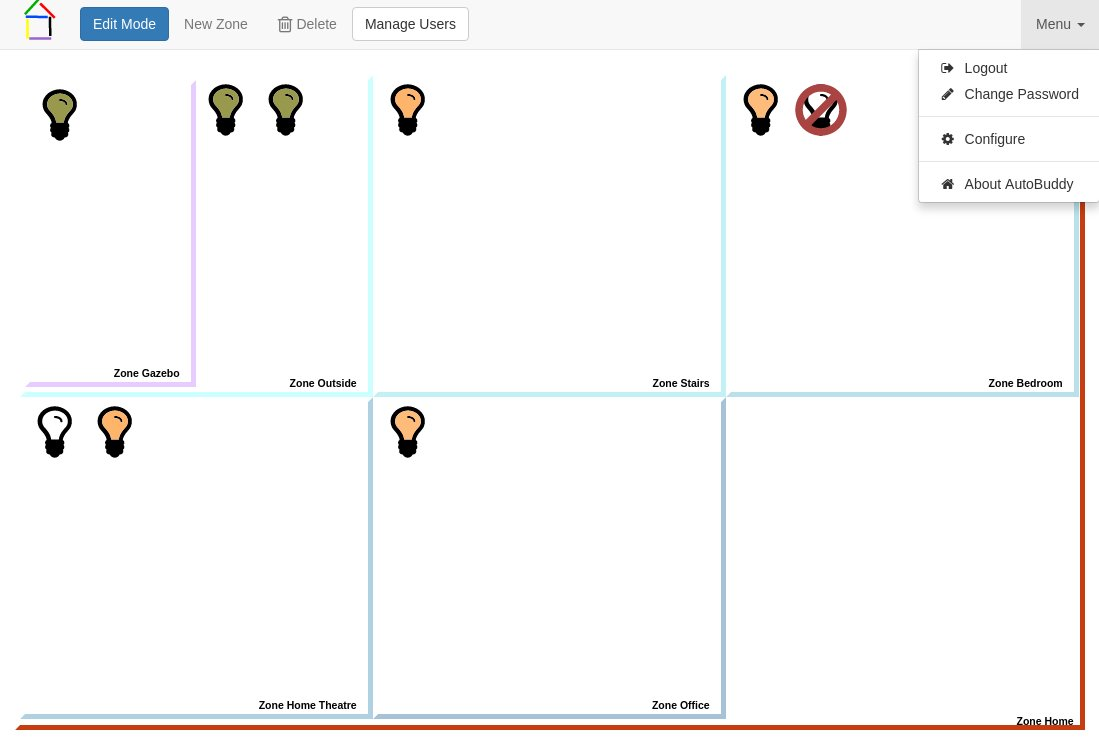
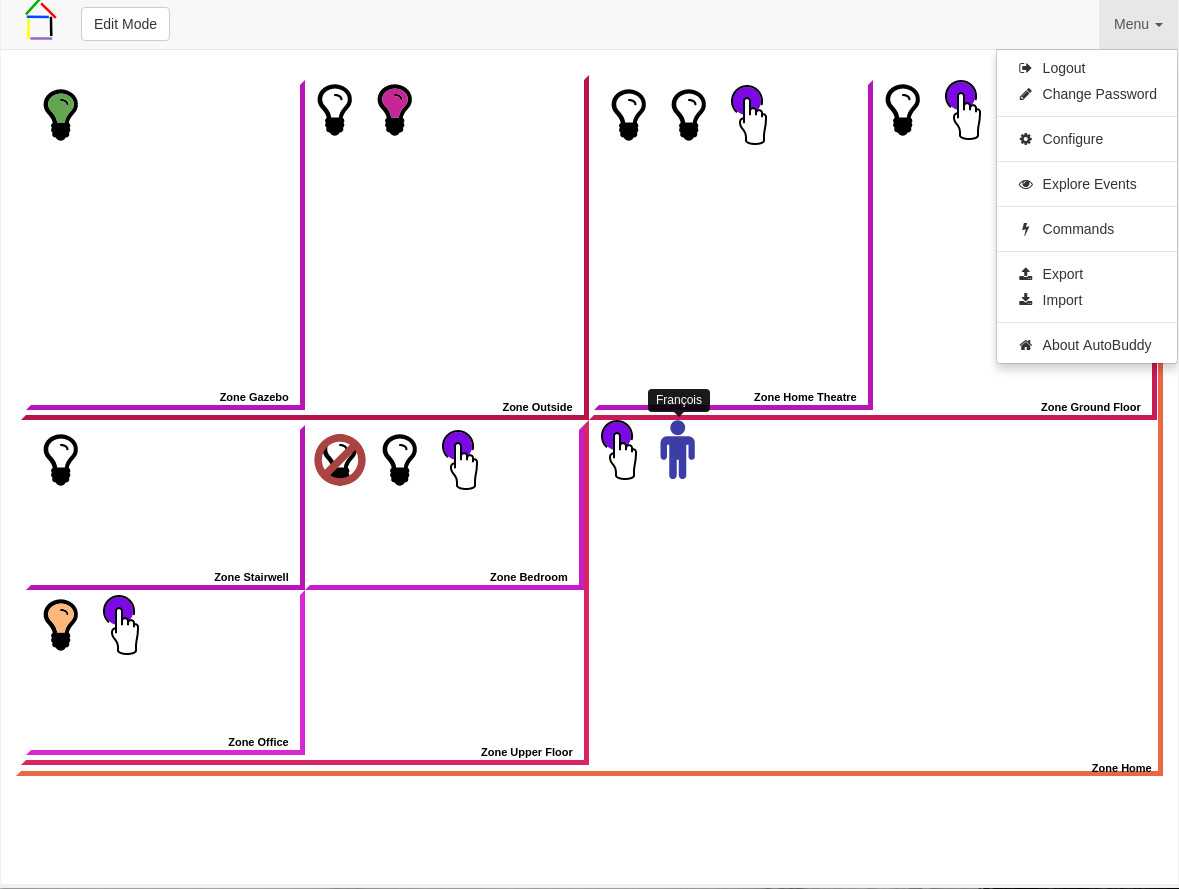
Updated to reflect March 2017 status

diff --git a/index.html b/index.html
@@ -33,30 +33,78 @@
           <h1>Introduction</h1>
           <p><em>AutoBuddy</em> is a would-be home automation system written in his spare time by François Wautier.
           It is distributed under the MIT license.</p>
-          <p>This project was triggered by the purchase of a number of <a href="http://www.lifx.com">Lifx lightbulbs</a></p>
-          <p><em>AutoBuddy</em> consists in a number of pieces of software communicating via
-          <a ref="https://www.amqp.org/">AMQP</a> using <a hef="https://qpid.apache.org/">Apache Qpid</a> daemon and library.</p>
-          <p>This project is pretty much in its infancy and should be considered at this point (Oct 2015) as pre-alpha</p>
+          <p>This project was triggered by the purchase of a number of <a href="http://www.lifx.com">Lifx lightbulbs</a>.</p>
+          <p><em>AutoBuddy</em> consists in a number of pieces of software communicating via simple messaging bus. At this time,
+          March 2017, it should be considered beta software. AutoBuddy requires Python 3.5 or above.
+          </p>
           <p>AutoBuddy's logo was designed by Khan Wautier.</p>
           <h1>Components</h1>
           <h2>Buddylib</h2>
           <p>Buddylib is a python library that defines the element known to the AutoBuddy ecosystem. It defines zone, various 
           devices as well as some generic bridge functionalities. Buddylib depends on 
-          <a href="http://www.sqlalchemy.org/">SQLAlchemy</a> and <a hef="https://qpid.apache.org/">Apache qpid</a> python library.</p>
+          <a href="http://www.sqlalchemy.org/">SQLAlchemy</a>.</p>
           <h2>ControlBuddy</h2>
-          <p>ControlBuddy is at the heart of AutoBuddy. It controls the zones and their associated devices. It provides 
-          persistence services to other components.</p>
+          <p>ControlBuddy is at the heart of AutoBuddy. It multiplexes all the messages going in and out of the bus. It controls the zones and their associated devices. 
+          It provides persistence services to other components.</p>
           <h2>LifxBuddy</h2>
           <p>LifxBuddy is a bridge application that provides control to <a href="http://www.lifx.com">Lifx lightbulbs</a>. It uses 
-          <a href="https://github.com/mclarkk/lifxlan">lifxlan</a> to communicate with the lightbulbs.</p>
+          <a href="https://github.com/frawau/aiolifx">aiolifx</a> to communicate with the lightbulbs.</p>
+          <h2>FlicBuddy</h2>
+          <p>FlicBuddy is a bridge application that provides access to <a href="https://flic.io/">Flic Smart Button</a>. It uses 
+          <span style="font-style: italic;">aioflic</span> and <span style="font-style: italic;">flicd</span>, that can be found within
+          <a href="https://github.com/50ButtonsEach/fliclib-linux-hci">fliclib-linux-hci</a> to communicate with the buttons. FlicBuddy requires the exclusive us of a
+          Bluetooth adapter. More than one BuddyFlic can run as long as they have different subtypes. </p>
+          <h2>PresenceBuddy</h2>
+          <p>PresenceBuddy is a bridge application that provides presence information based on devices' MAC addresses. It uses 
+          <a href="https://github.com/frawau/aioarping">aioarping</a> to track MAC addresses on your LAN and/or <a href="https://github.com/frawau/aiobtname">aiobtname</a>
+          to track Bluetooth MAC addresses. Tracking presence with Bluetooth is very reliable. Tracking presence using ARP request is much less reliable. We
+          tested with LG G5, Samsung Galaxy 7, iPhone 4s, iPhone 7 all of them answered haphazardly to the ARP requests sent.</p>
+          <h2>ActionBuddy</h2>
+          <p>ActionBuddy is an application that processes events and act on them based on rules defined by the users. ActionBuddy also manages
+          internal time events (granularity is 1 minute). ActionBuddy let the user define <span style="font-style: italic;">state variables</span>
+          and <span style="font-style: italic;">rules</span>.</p>
+          <p>State variables can be of type:
+          <dl>
+          <dt>event</dt><dd>Keep track of some event value (oor part thereof)</dd>
+          <dt>simple</dt><dd>A way too share information between rules</dd>
+          <dt>counter</dt><dd>Similar to a simple variable, but with interger operations.</dd>
+          <dt>tracker</dt><dd>A way to track entities associated with specific events/values.</dd>
+          <dt>time</dt><dd>A way to define time intervals</dd>
+          </dl>
+          </p>
+          <p>Rules are defined by:
+          <dl>
+          <dt>A trigger</dt><dd>An event/value or the resulting value of a state variable after an event.</dd>
+          <dt>A list of conditions</dt><dd>Each condition testing the value of a state variable.</dd>
+          <dt>A list of commands</dt><dd>A list of commands to be executed if all the condition have been met after the rule was triggerred.</dd>
+          </dl>
+          </p>
+          <p>ActionBuddy will process all events in the following way:
+          <ol>
+          <li>Update all the state variables that the event should update,</li>
+          <li>Check what rules are triggerred,</li>
+          <li>Check that all the conditions are met for the rules triggerred,</li>
+          <li>If all checks, execute the commands.</li>
+          </ol>
+          </p>
+          <p>With ActionBuddy you can define rule that:
+          <ul>
+          <li>Create a nice light show at sunset</li>
+          <li>Toggle a light at the push of a flic</li>
+          <li>Restore the state of your light after a power outage</li>
+          <li>Turns light On/Off depending on the time of day and the presence/absence of people</li>
+          <li>Have your wife prepare you breakfast when you wake up..... Oh wait! That is not working yet.</li>
+          <li>...</li>
+          <ul>
+          </p>
           <h2>SocketBuddy</h2>
-          <p>SocketBuddy provides 2-way communication between websocket and AMQP. It serves WebBuddy and also provides login service to
-          WebBuddy. It uses <a href="http://autobahn.ws/">Autobahn WebSocket</a> Python library and 
-          <a hef="https://qpid.apache.org/">Apache qpid</a> library.</p>
+          <p>SocketBuddy provides 2-way communication between websocket and the . It serves WebBuddy and also provides login service to
+          WebBuddy. It uses <a href="http://aiohttp.readthedocs.io/en/stable/">aiohttp</a> Python library.</p>
           <h2>WebBuddy</h2>
           <p>WebBuddy is AutoBuddy web application. It enables the user, to create zones, associate devices with zone,
-          send commands to the devices/zones, manage users, and so on.</p>
+          send commands to the devices/zones, manage users, define rules, and so on.</p>
           <img src="images/webbuddy-snap.jpg" />
+          <img src="images/webbuddy-light-control.jpg" />
           <p>WebBuddy depend on, among others:
               <ul>
               <li><a href="https://jquery.org/">jQuery and jQuery-ui</a></li>
@@ -66,22 +114,31 @@
               that is a sub-project of ours.</li>
               </ul>
           </p>
+          <img src="images/webbuddy-action-rule.jpg" />
+          <p>WebBuddy uses BuddyGuiLib to render all the command and configuration described in XML by each modules on
+          the bus.</p>
           <h2>Others</h2>
           <p>As time goes by, many other components should appear here. For instance:
               <dl>
-              <dt>EventBuddy</dt><dd>Generate events based on day, time of day, calendar events,...</dd>
-              <dt>ActionBuddy</dt><dd>Perform action, state changes in response to events.</dd>
-              <dt>UPSBuddy</dt><dd>Restore state after power failure</dd>
-              <dt>HereBuddy</dt><dd>Detect presence via phone MAC address</dd>
+              <dt>LocationBuddy</dt><dd>Locating people in specific zone</dd>
               <dt>VoiceBuddy</dt><dd>Voice control</dd>
+              <dt>HayoBuddy</dt><dd>Support for <a href="https://hayo.io/">Hayo</a></dd></dd>
               <dt>...</dt>
               </dl>
-          
+          </p>
+          <h2>ConfigBuddy</h2>
+          <p>ConfigBuddy is a an application use for the initial configuration of the system.</p>
           
           <h1>Documentation</h1>
           <p>Description of the messages and their function is somewhat documented on
           <a href="https://docs.google.com/document/d/12_5Gr2zif0sSP3OtA12iZu0asv9sjVAy4ApaRnveBOw/edit?usp=sharing">Google Drive</a>.</p>
           <h1>Status</h1>
+          <h3>March 2017</h3>
+          <p>System is soon to have its first release.</p>
+          <p>I have it installed on a Raspberry Pi 3 and I use it everyday. It just works.</p>
+          <p>Before release, I want to solve a couple of annoying bugs. I also want to add a location widget
+          for BuddyGuiLib so that it is more convenient for people to set their location (needed for sunrise/sunset time) 
+          event though ConfigBuddy gets your location allright.</p>
           <h3>October 2015</h3>
           <p>System released on an unsuspecting world. Chaos may ensue.</p>
           <p>The system is minimal. At this time we can 
